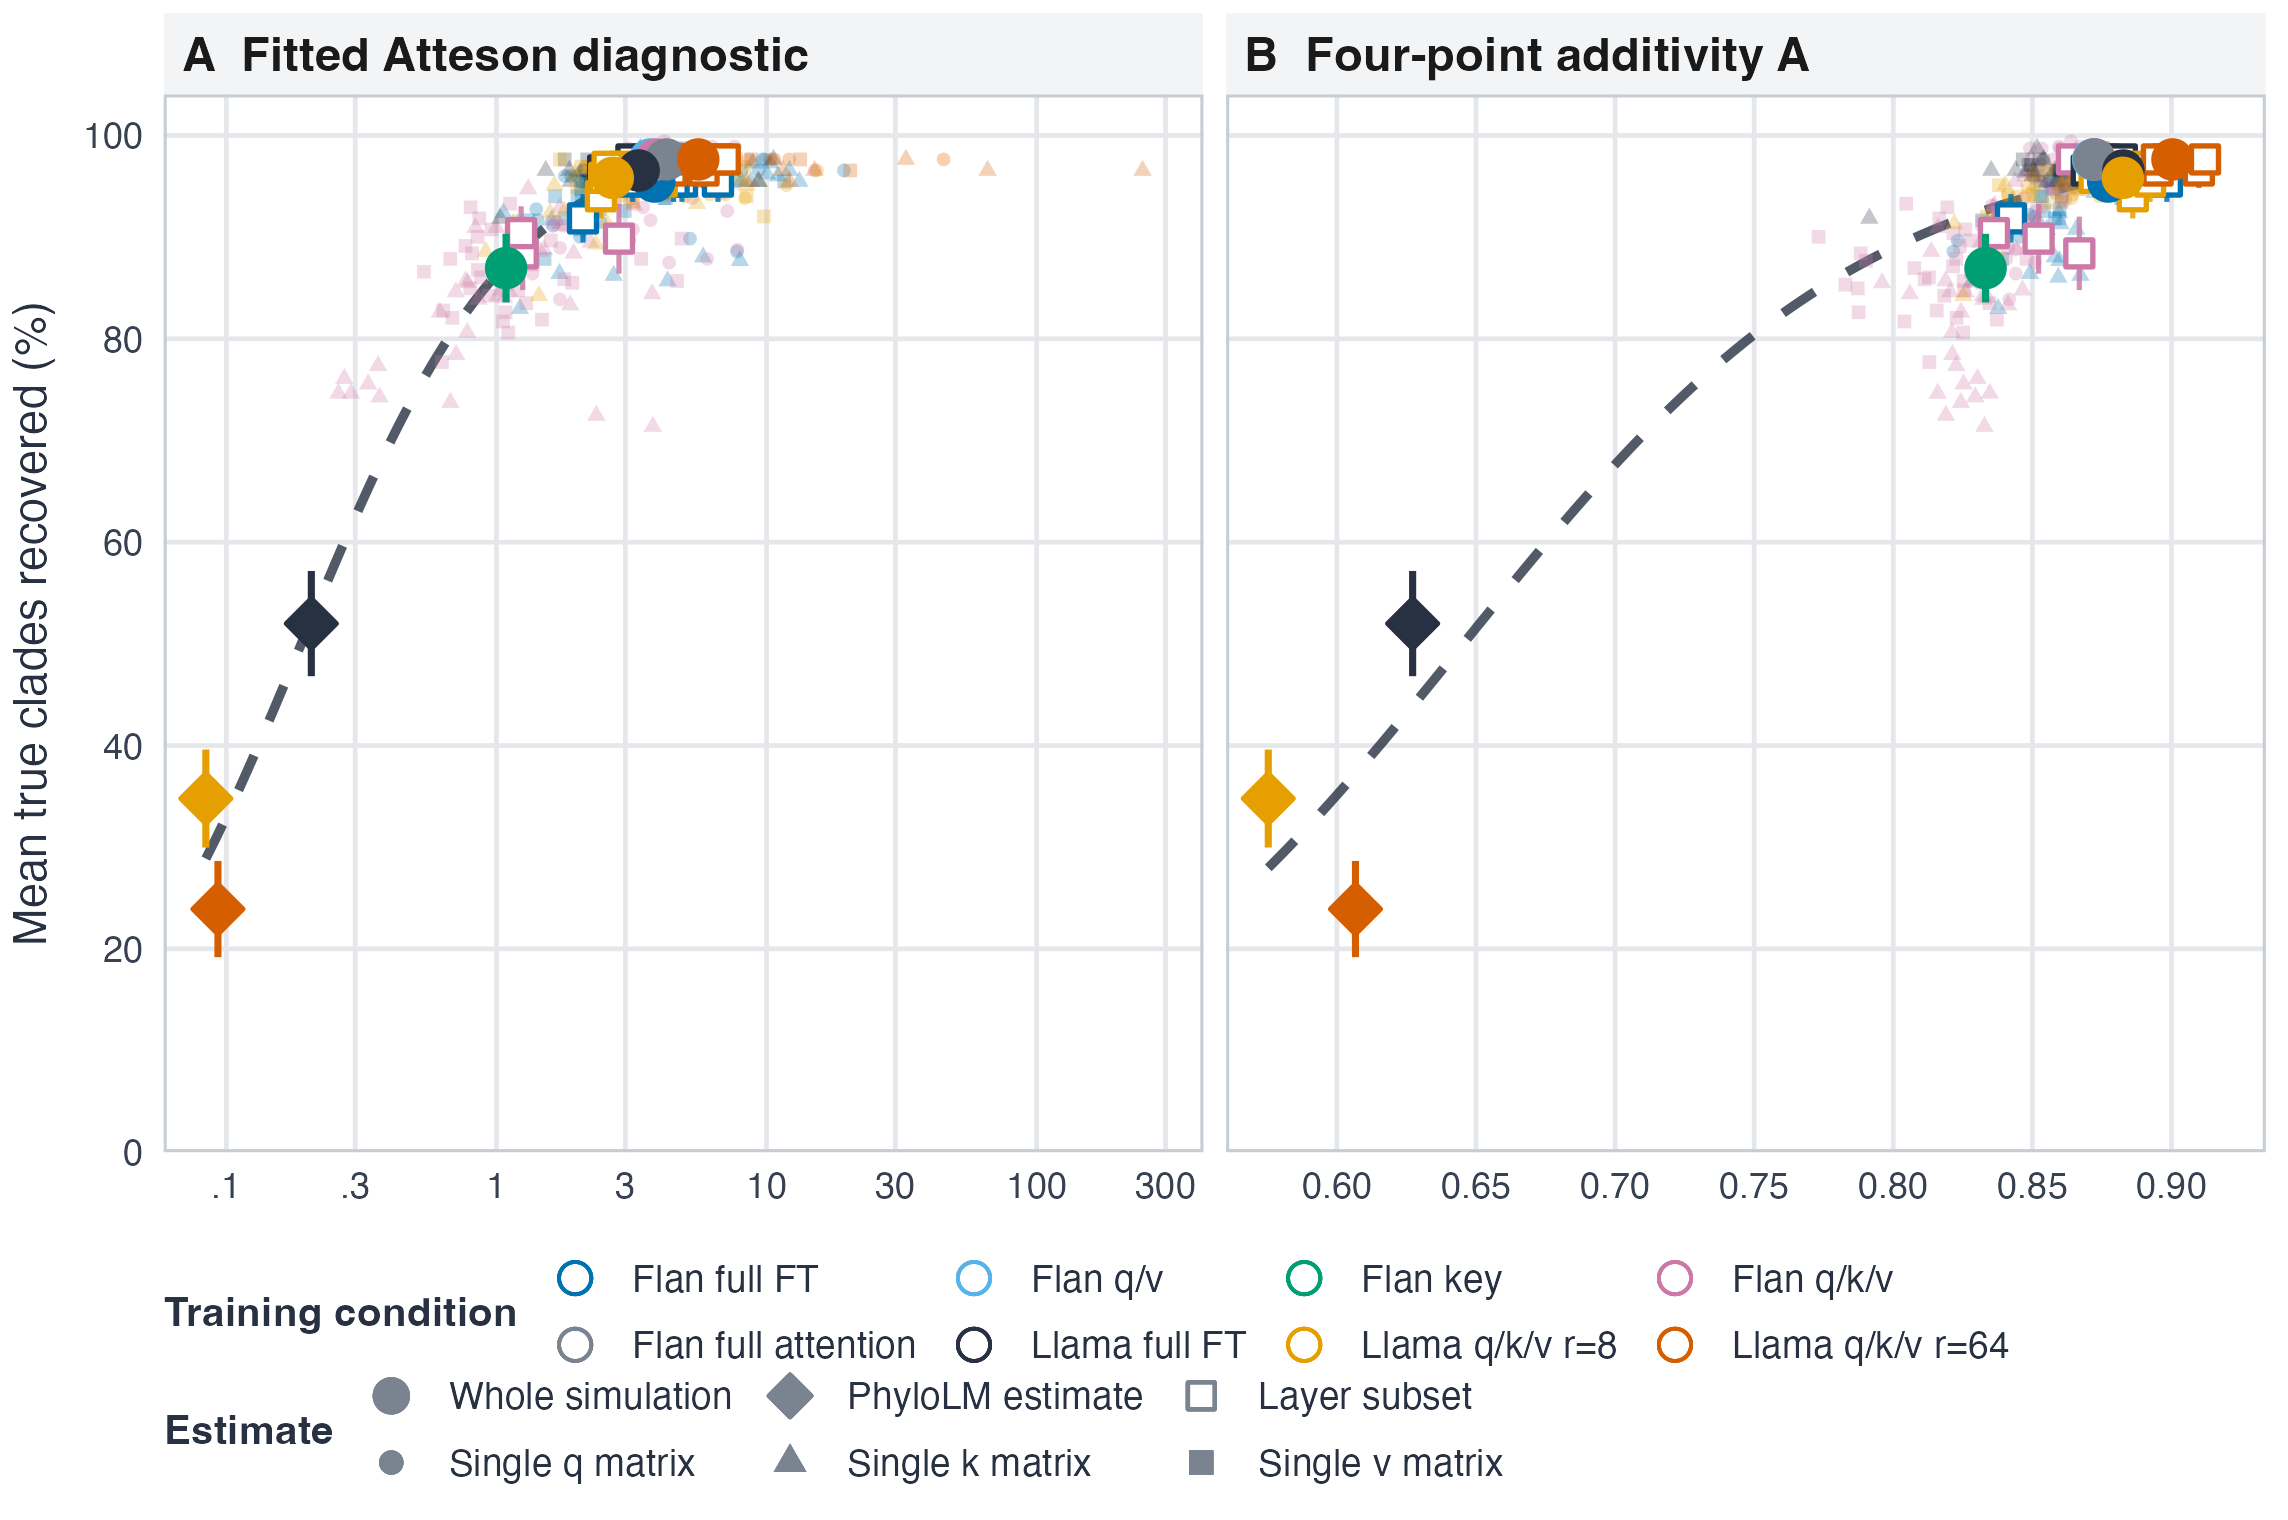
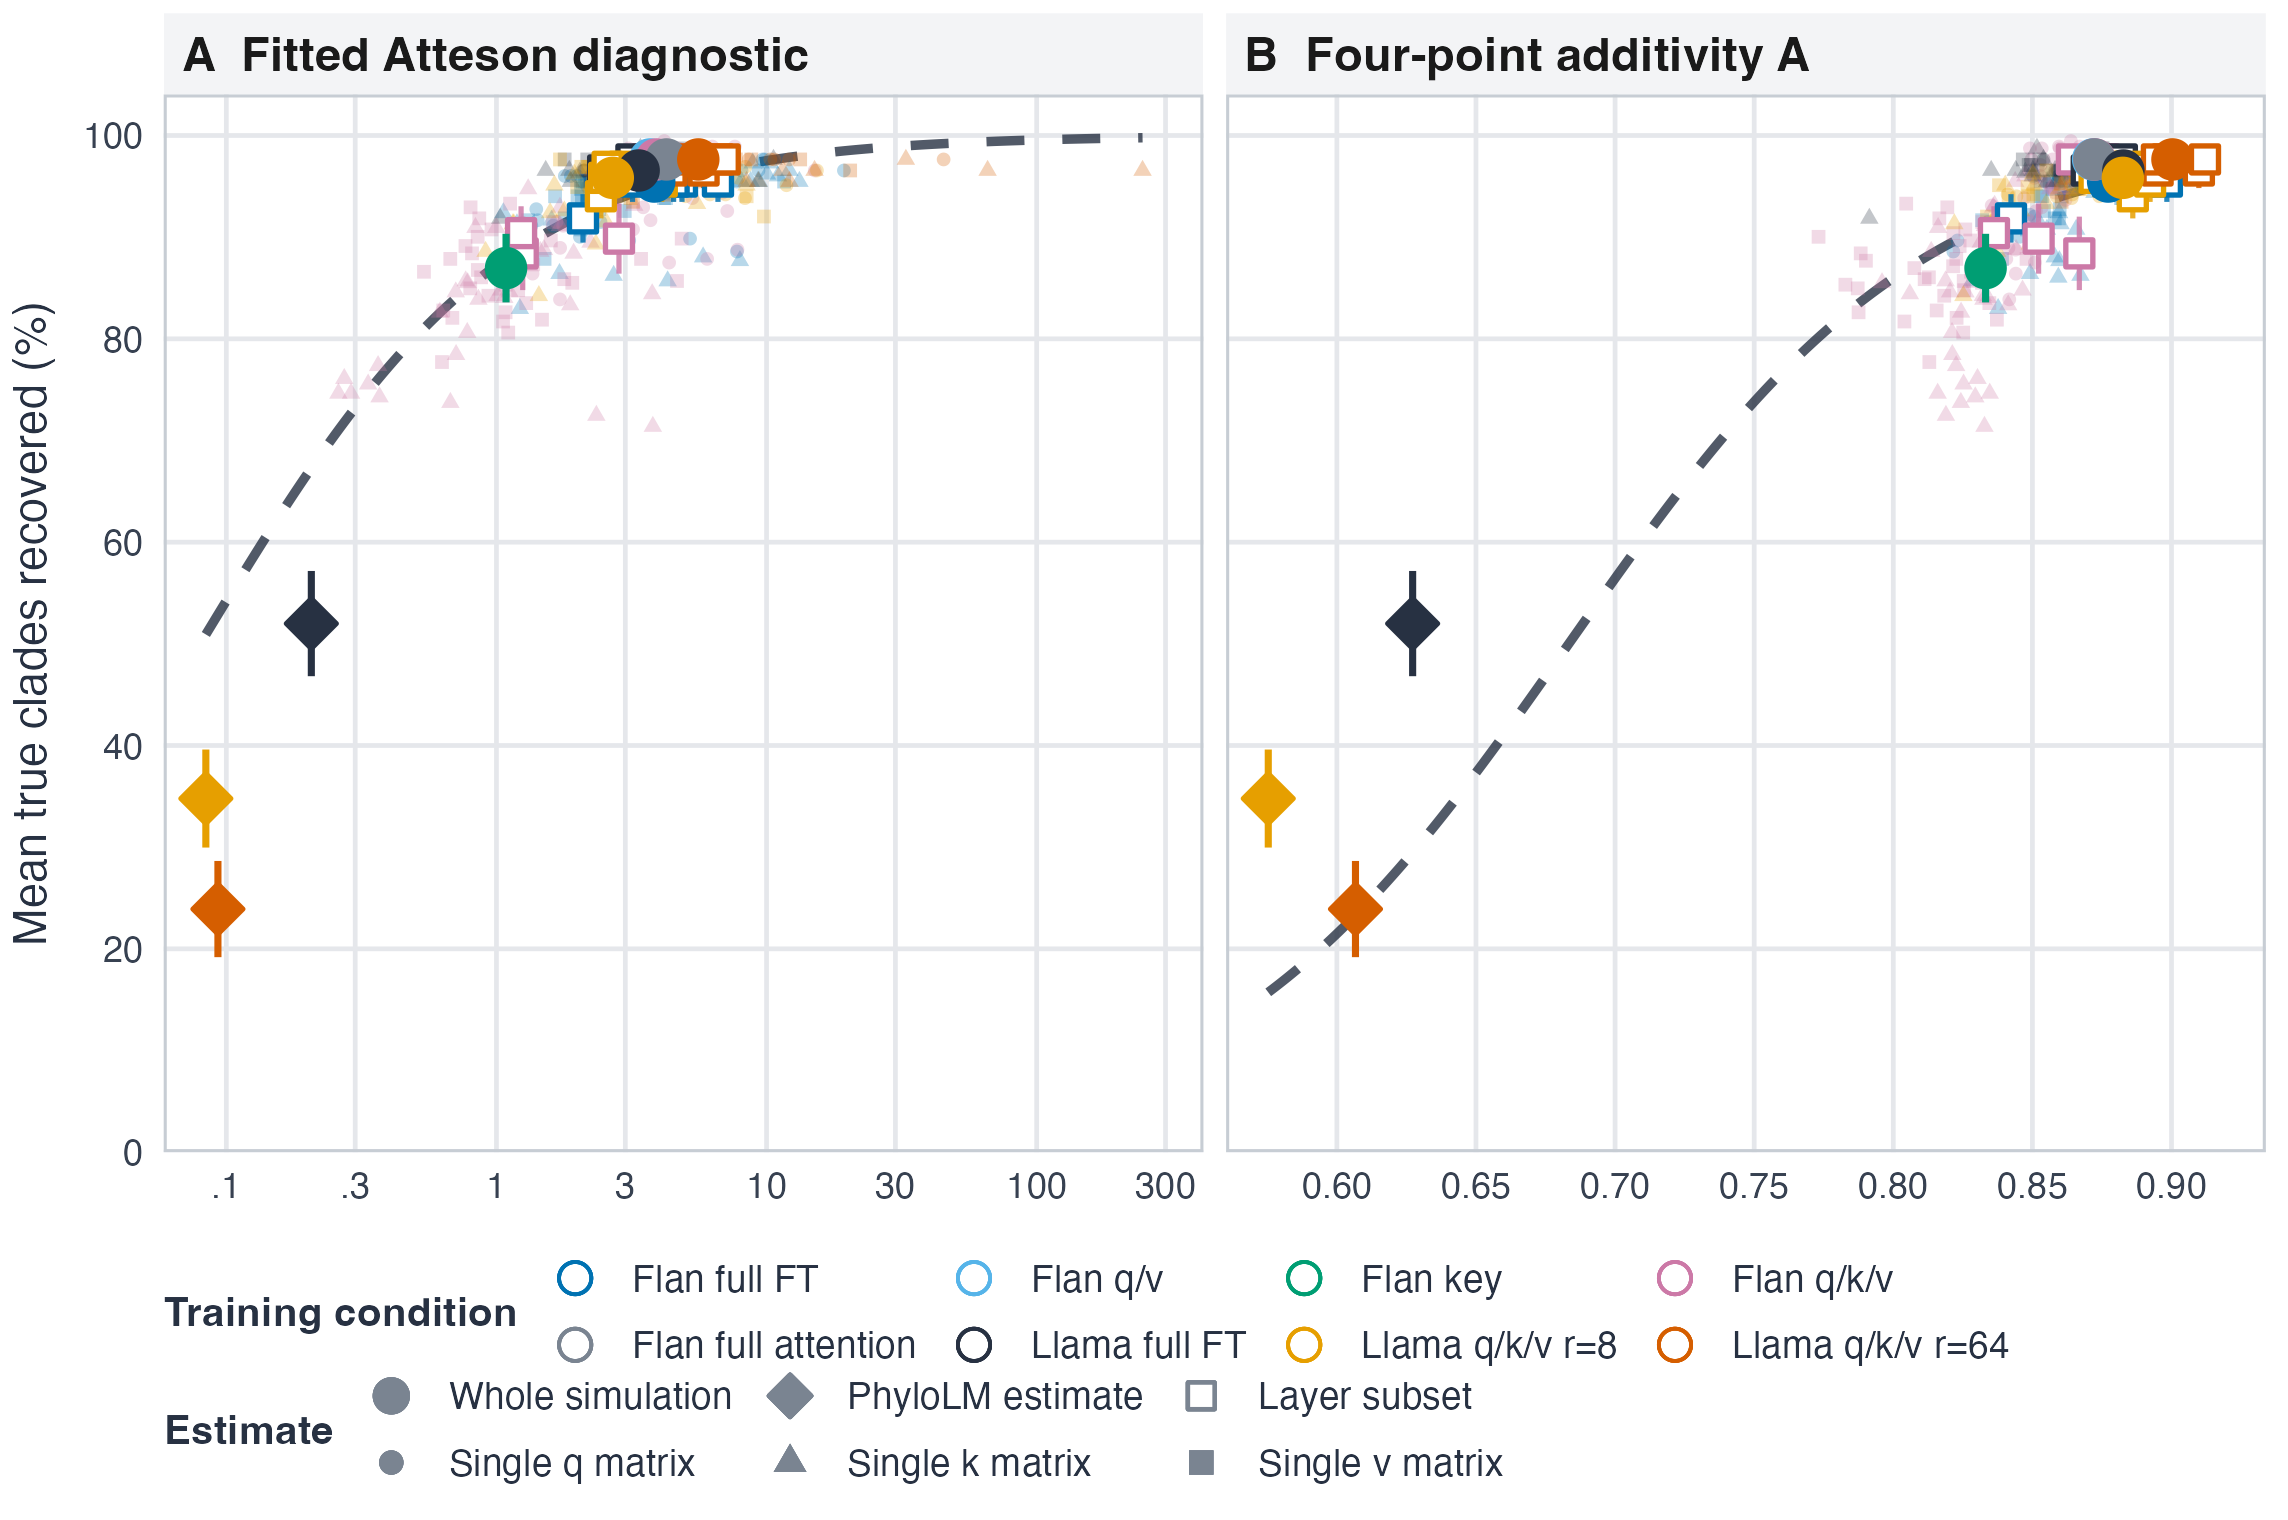
Clarify Figure 2 estimator-level calibration

diff --git a/iclr_draft_v4.tex b/iclr_draft_v4.tex
@@ -447,9 +447,9 @@ Finally, Figure~\ref{fig:coherence_recovery} shows simulation-level, layer-subse
     conditions and the Flan q/k/v and Llama rank-8/rank-64 merged LoRA runs.
     Every mark is an average over the same 46 topology-eligible trees used in
     Tables~\ref{tab:variants} and~\ref{tab:phylolm}; vertical intervals on simulation, PhyloLM, and
-    subset summaries are $\pm1$ SE. Dark curves are pooled fractional-logit fits to the simulation,
-    subset, and PhyloLM summaries; individual matrices are shown as contextual estimates and do not
-    receive multiplicity-driven weight in the fit.
+    subset summaries are $\pm1$ SE. Dark dashed curves are pooled fractional-logit fits to all
+    displayed estimator summaries. Because estimators reuse the same 46 trees, the curves are
+    descriptive calibrations rather than independence-based inferential tests.
     Panel A uses a log scale.}
   \label{fig:coherence_recovery}
 \end{figure}

diff --git a/HANDOFF_FIGURE2_20260804.md b/HANDOFF_FIGURE2_20260804.md
@@ -32,9 +32,15 @@ simulations are filled circles, subsets are hollow squares, and q/k/v matrices u
 circle/triangle/square marks.
 
 Both panels now include a dark dashed pooled fractional-logit curve. The response is mean recovery
-proportion and the model is a quasi-binomial logit weighted by `n_runs` (46 for every point). The fit
-uses the 40 simulation, subset, and PhyloLM summaries. The 360 individual matrices remain visible but
-are excluded from the fit so layer multiplicity does not overwhelm the higher-level summaries.
+proportion and the model is a quasi-binomial logit weighted by `n_runs` (46 for every point). Following
+the clarified estimand, the fit uses all 400 displayed estimator summaries: simulations, subsets,
+individual matrices, and PhyloLM. Every point remains a mean over the same 46-tree distribution.
+
+For the final all-point descriptive fits, the logit slope is 1.75 per unit increase in
+`log10(Atteson)` with 62.6% of null deviance explained; the additivity slope is 15.55 per unit of
+additivity with 64.7% of null deviance explained. These are useful rough strength summaries, but their
+naive model-based standard errors are not used because the 400 estimator summaries are paired through
+the same trees.
 
 ## Scientific interpretation
 
@@ -44,9 +50,11 @@ clear positive, saturating empirical relationship with recovery. This is much mo
 a pooled correlation among ceiling-compressed weight estimates.
 
 The dashed curves are still descriptive calibration, not a formal independence-aware significance
-test. Subsets and matrices reuse the same 46 trees and are correlated. If formal inference is needed,
-the next analysis should operate on per-tree records and use a tree-clustered bootstrap or a
-mixed-effects/binomial model.
+test. Subsets and matrices reuse the same 46 trees and are correlated. This does not invalidate the
+rough calibration slope, but naive GLM standard errors would be too optimistic. If formal inference is
+needed, resample the 46 tree IDs jointly, recompute every estimator mean, and refit the fractional
+logit in each bootstrap replicate; that preserves the paired dependence and directly quantifies slope
+uncertainty.
 
 ## Source and generated files
 

diff --git a/NEXT_SESSION.md b/NEXT_SESSION.md
@@ -3,9 +3,10 @@
 Open `HANDOFF_FIGURE2_20260804.md` and inspect `figures/fig4_coherence_atteson.pdf`.
 
 Figure 2 is rebuilt with full-FT, merged-LoRA, subset, single-matrix, and matched PhyloLM estimates.
-The pooled fractional-logit fits are dark dashed curves and exclude the 360 individual matrices from
-fitting so they cannot dominate by multiplicity.
+The pooled fractional-logit fits are dark dashed curves through all 400 displayed estimator summaries.
+Each point averages its diagnostic and recovery over the same 46 eligible trees.
 
 First decision next time: whether the descriptive fractional-logit curves are sufficient for the
-paper or whether to add tree-clustered bootstrap intervals / a per-tree mixed-effects analysis.
+paper or whether to add a joint tree bootstrap that resamples the 46 tree IDs, recomputes all estimator
+means, and refits the slope while preserving paired dependence.
 Also compile the manuscript in a TeX-enabled environment and verify the Figure 2 caption/page layout.
